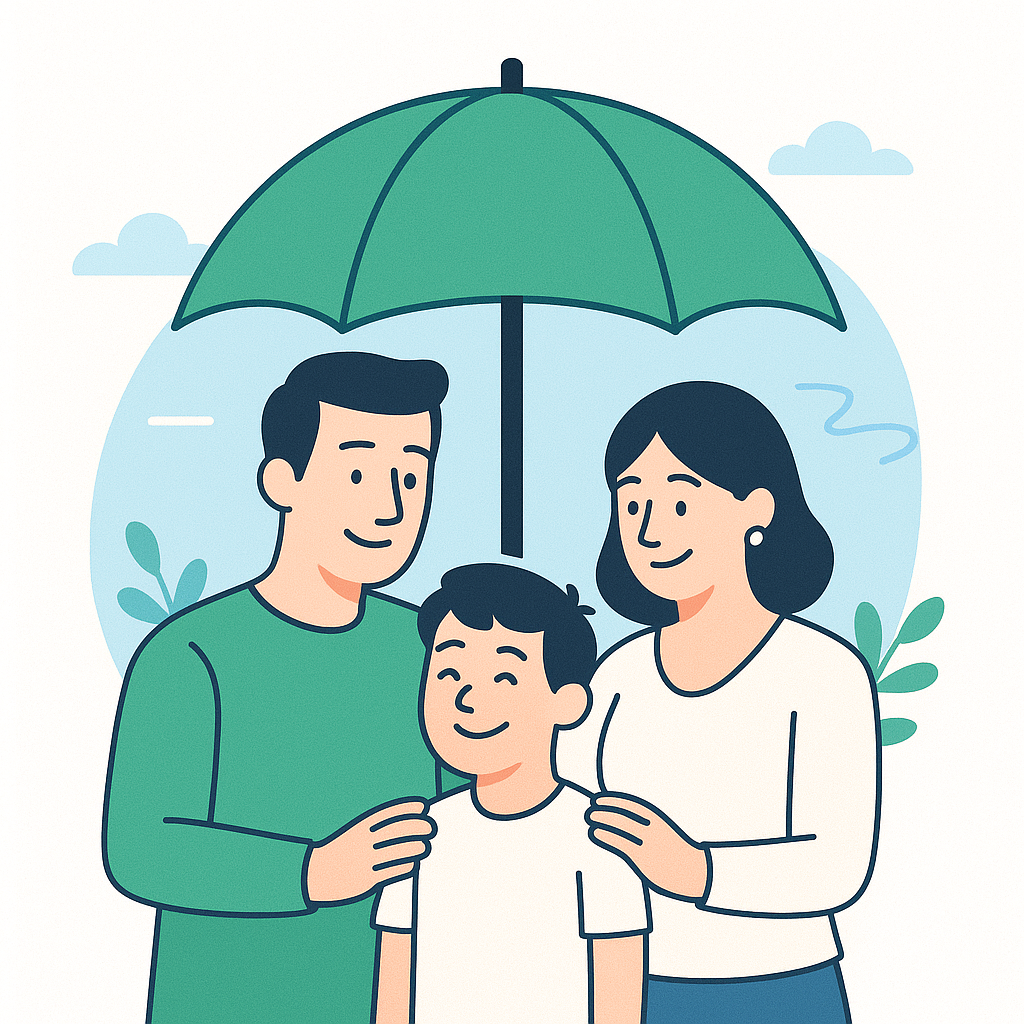
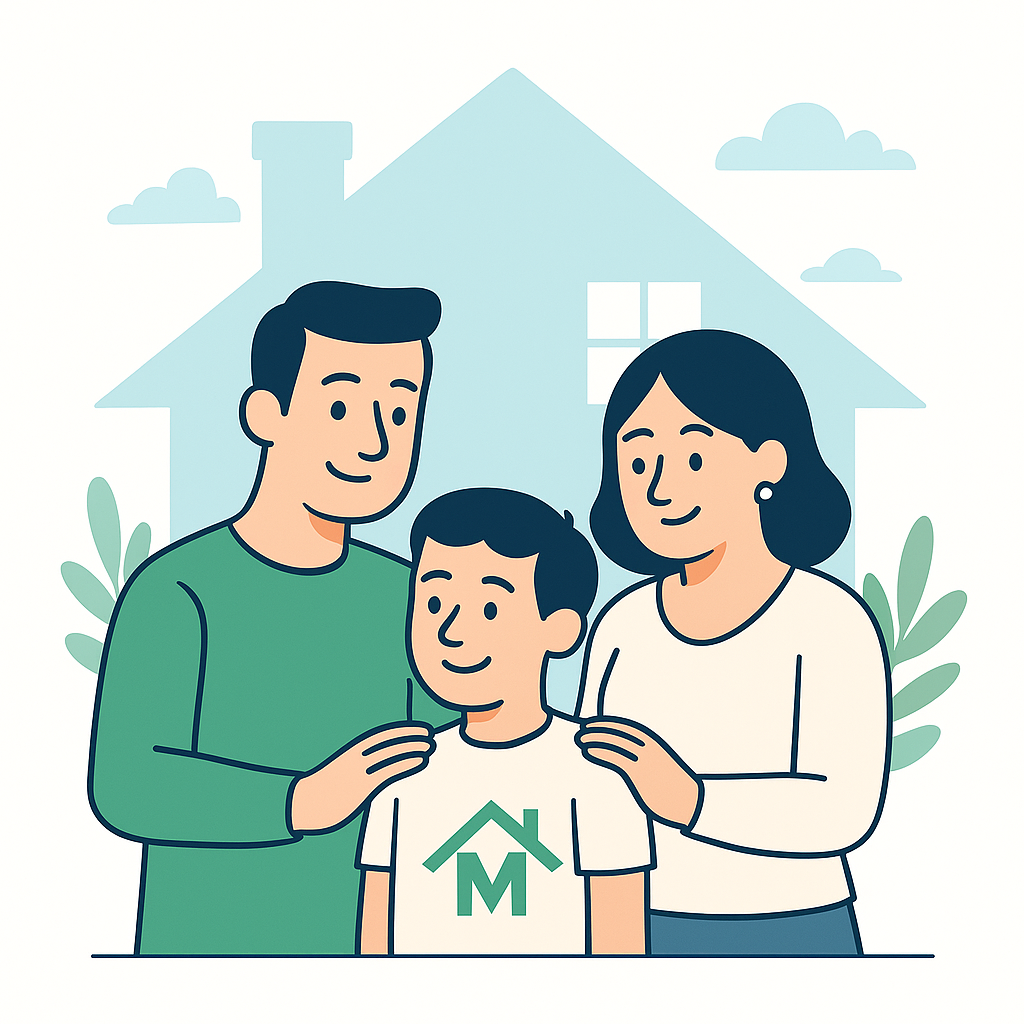
Correcciones de ortografia y Nueva imagen para seguro de Hogar

diff --git a/mencas/src/data/services.js b/mencas/src/data/services.js
@@ -12,5 +12,5 @@ export const services = [
   { title: "Propiedad", description: "Protege tu hogar y pertenencias valiosas.", image: seguroPropiedad },
   { title: "Vida", description: "Asegura el futuro de tus seres queridos con tranquilidad.", image: seguroVida },
   { title: "Viaje", description: "Disfruta sin estrés tus viajes, siempre protegido.", image: seguroViaje, badge: "Compra en línea" },
-  { title: "Asegurame T-Asiste", description: "Asistencia, protección y salud en todo momento.", image: seguroMencasTeAsiste, badge: "Compra en línea" },
+  { title: "Mencas T-Asiste", description: "Asistencia, protección y salud en todo momento.", image: seguroMencasTeAsiste, badge: "Compra en línea" },
 ];

diff --git a/mencas/src/components/Contact.jsx b/mencas/src/components/Contact.jsx
@@ -31,7 +31,7 @@ const Contact = () => {
       Mauricio Mendoza
     </p>
     <p className="text-sm text-neutral-600 dark:text-neutral-600">
-      Gerente de Mencas Corredora de Seguros y asesor de seguros.
+      Gerente de Mencas Corredora de Seguros y Asesor de Seguros.
     </p>
   </BackgroundGradient>
 </div>

diff --git a/mencas/src/components/Hero.jsx b/mencas/src/components/Hero.jsx
@@ -10,7 +10,7 @@ import seguroMencasTeAsiste from "../assets/asistencia.png";
 import Alliances from "../components/Alliances"; 
 const cards = [
   {
-    title: "Seguro Vehículo",
+    title: "Seguro de Vehículo",
     description: "Protege tu auto ante cualquier eventualidad.",
     image: seguroAuto,
   },

diff --git a/mencas/src/components/Services.jsx b/mencas/src/components/Services.jsx
@@ -39,7 +39,7 @@ const cards = [
     badge: "Compra en línea",
   },
   {
-    title: "Asegurame T-Asiste",
+    title: "Seguro de Asistencia",
     description: "Asistencia, protección y salud en todo momento.",
     image: seguroMencasTeAsiste,
     badge: "Compra en línea",
